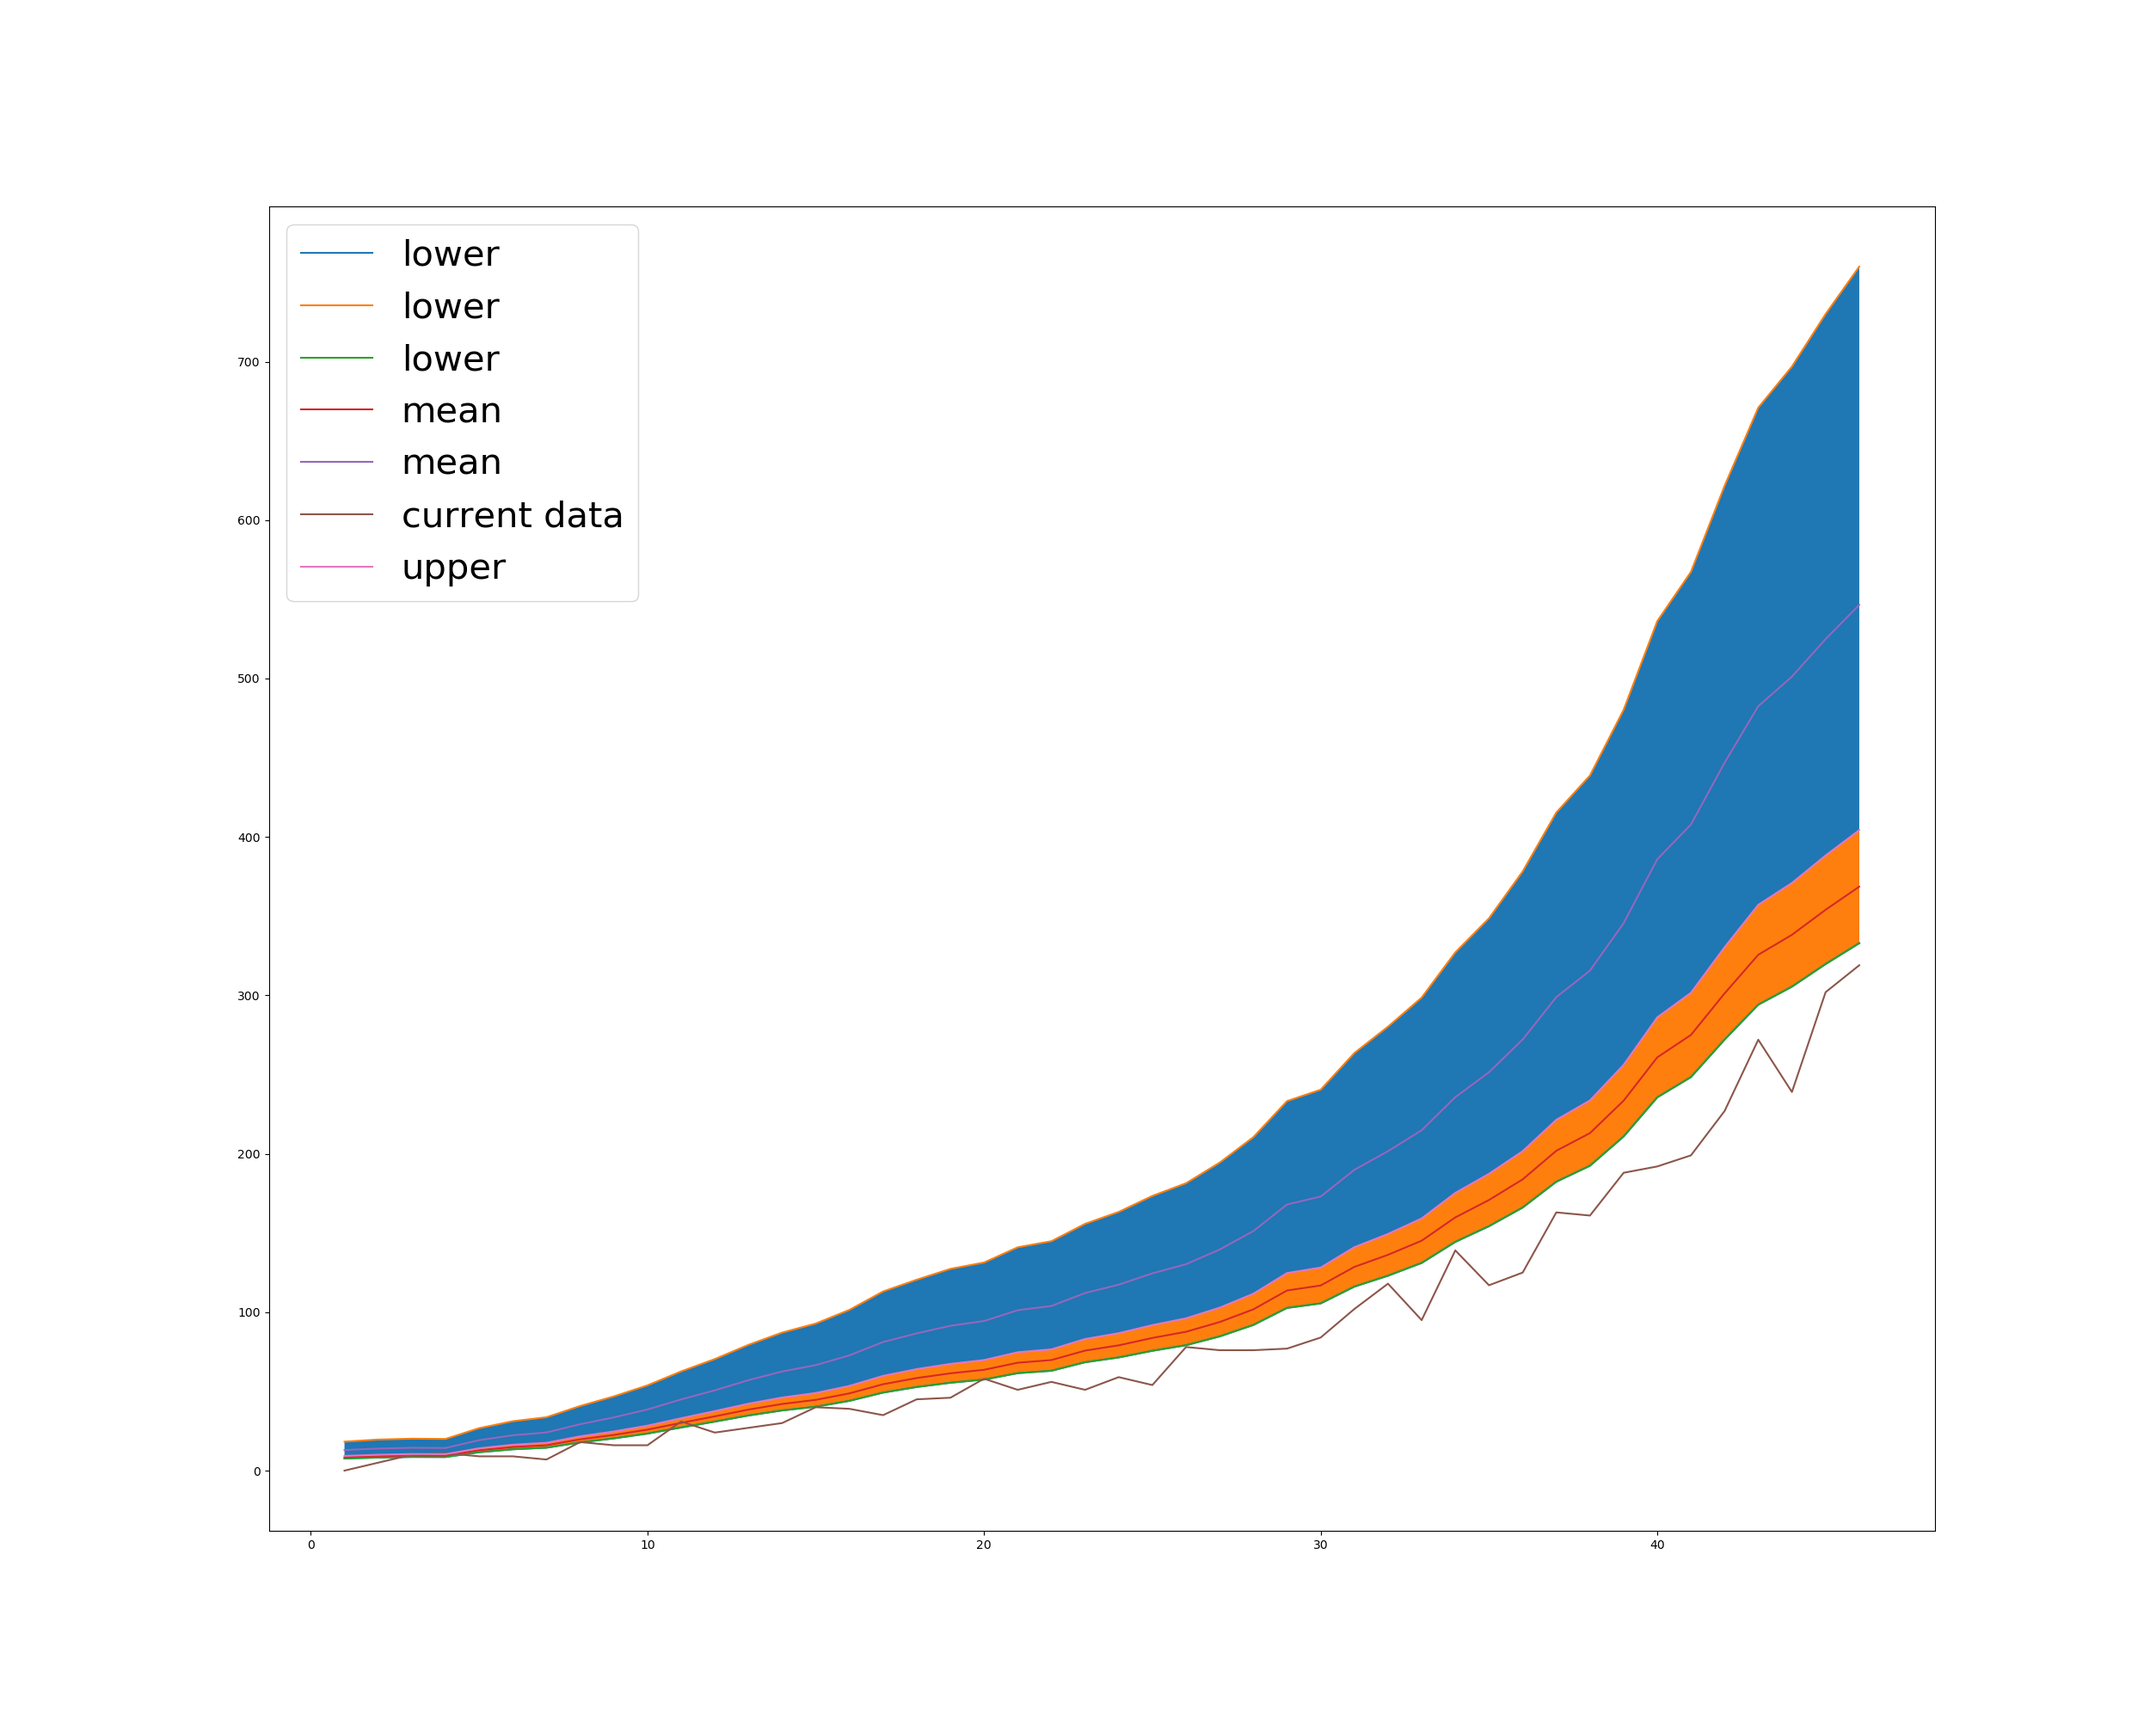
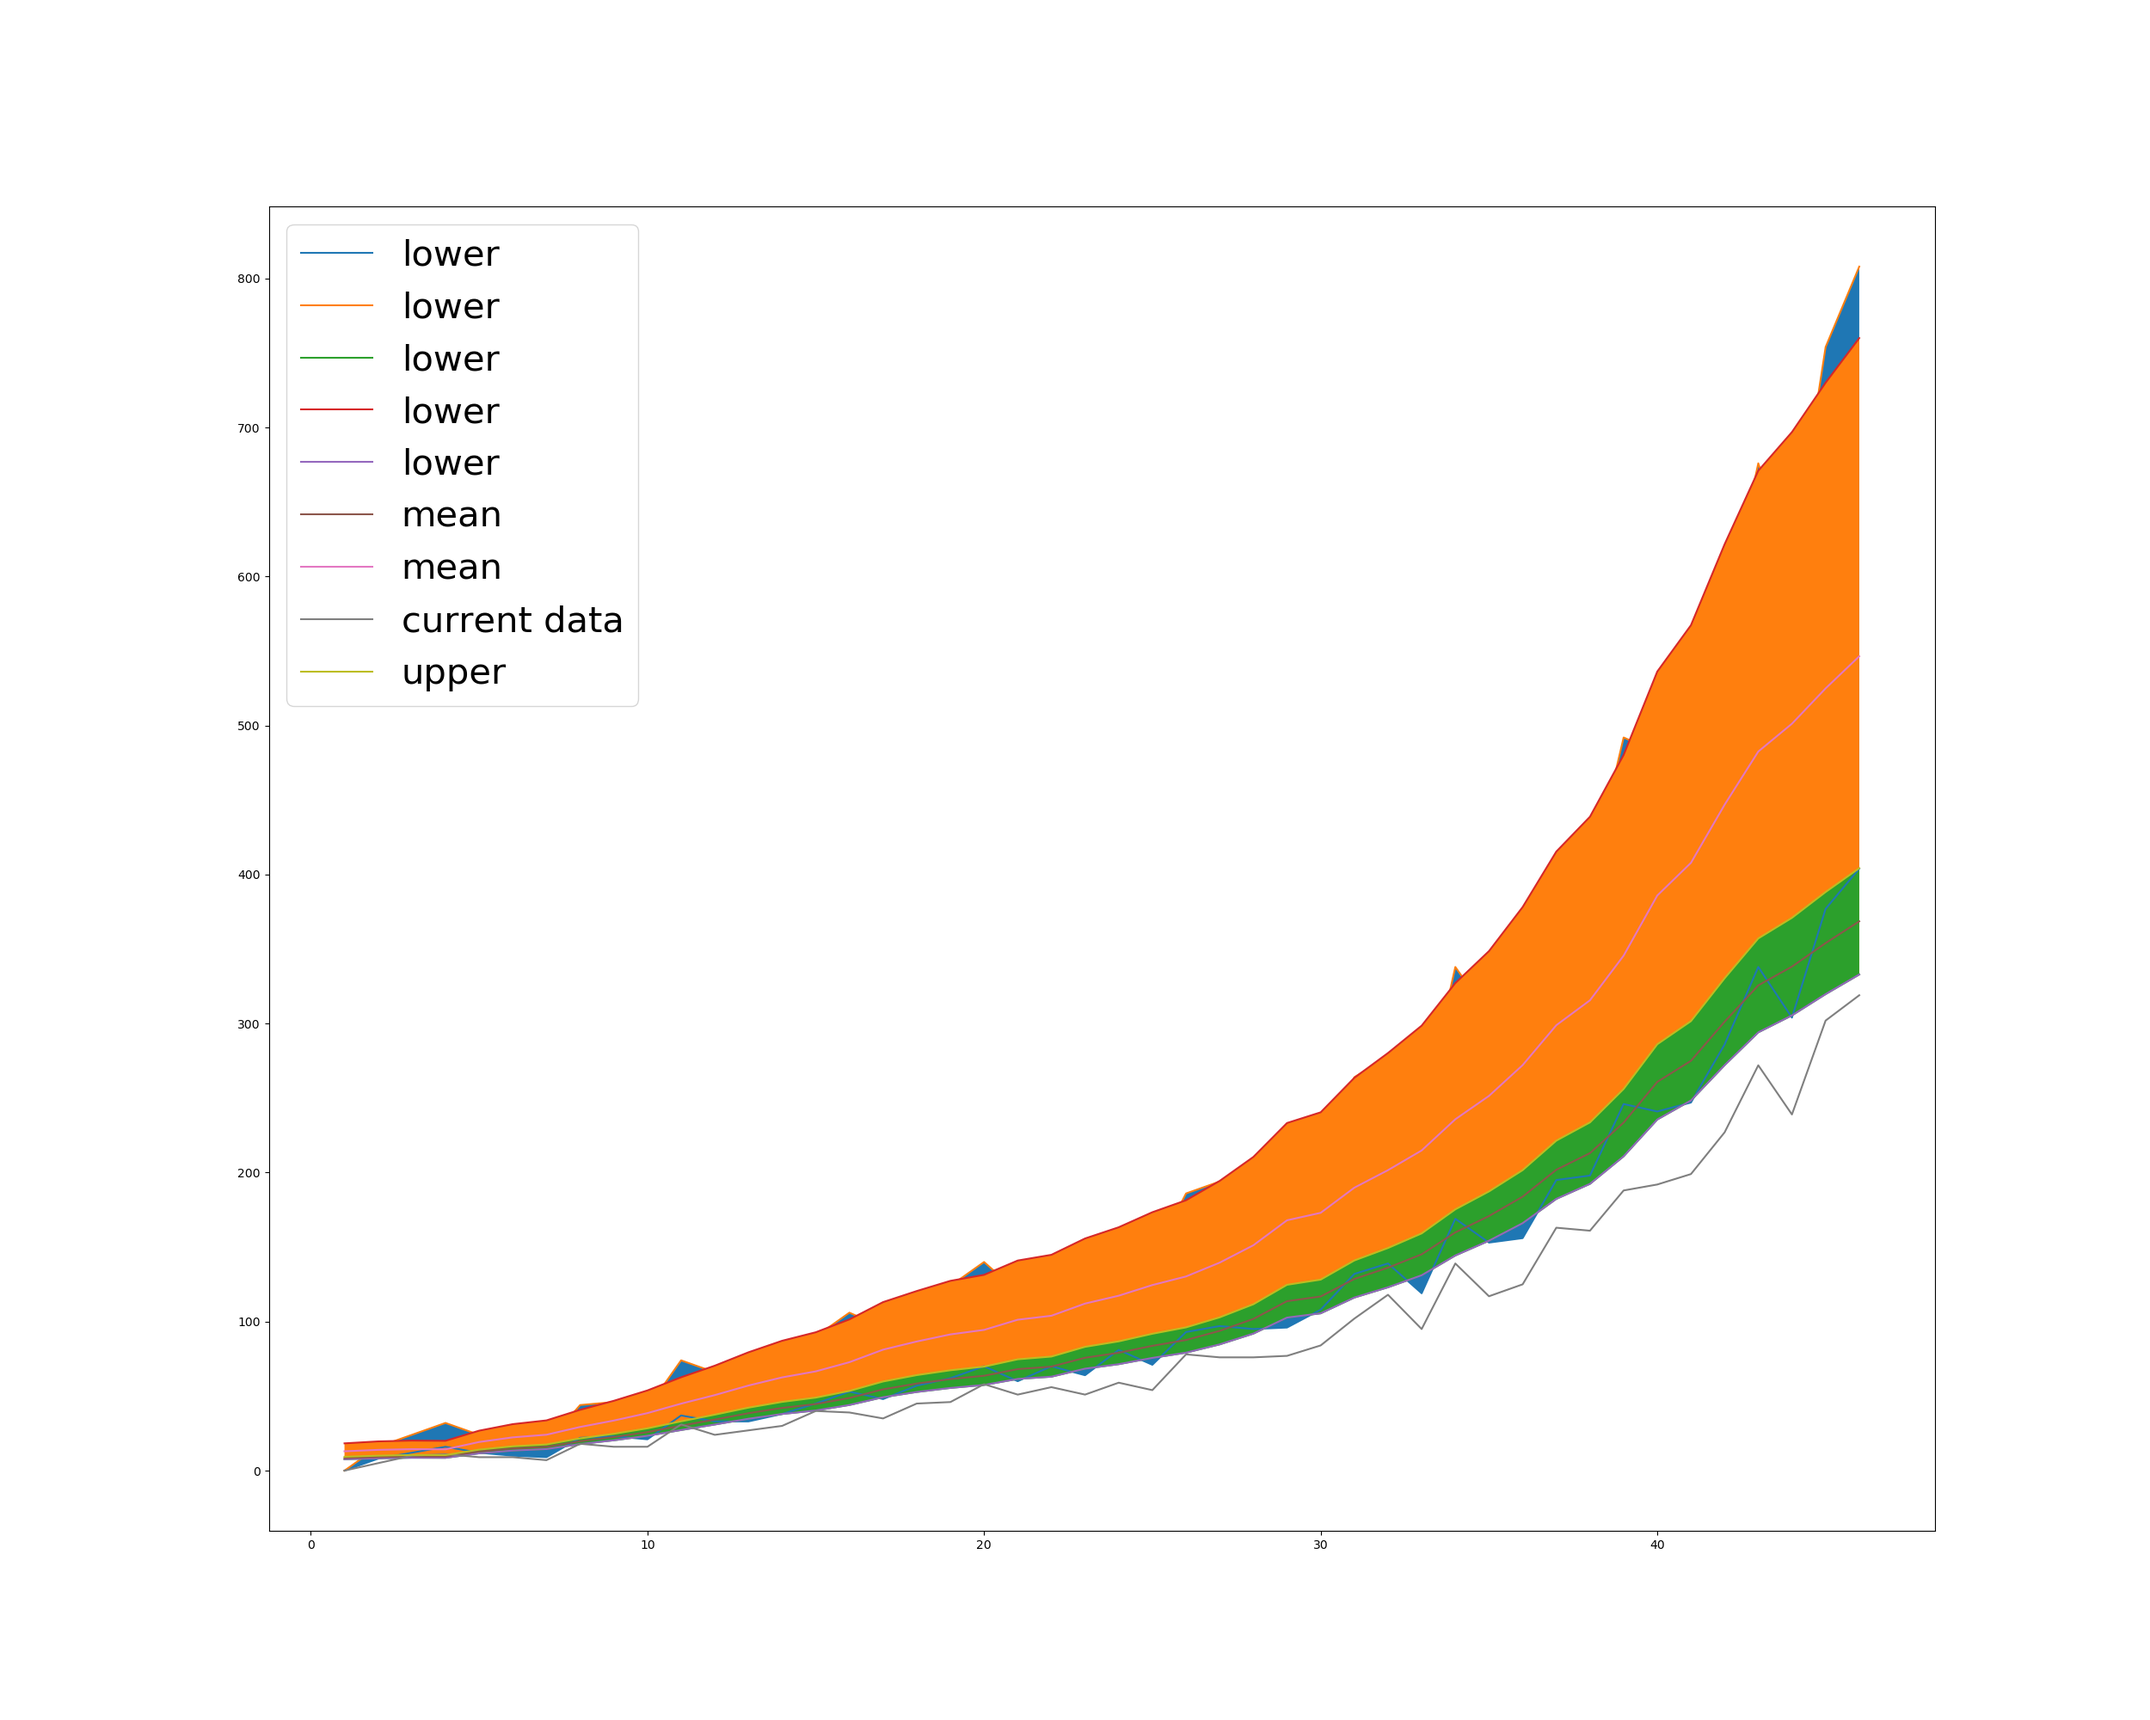
small update

Changed region(s): [[0.156, 0.155, 0.8736, 0.868], [0.1872, 0.217, 0.2808, 0.403]]

diff --git a/Python/bayesian_law/uncertainty.py b/Python/bayesian_law/uncertainty.py
@@ -96,7 +96,16 @@ def add_uncertainty(self, df):
     mu_mul = (norm_num_positive_mean * std_num_postive**2)+(norm_num_tested_mean * std_num_tested**2)/(std_num_postive**2+std_num_tested**2)
     var_mul = (std_num_tested**2*std_num_postive**2)/(std_num_postive**2+std_num_tested**2)
     std_mul = math.sqrt(var_mul)
-
+    
+    print("=======================================================")
+    print("M_u positive = {}".format(norm_num_positive_mean))
+    print("M_u Tested = {}".format(norm_num_tested_mean))
+    print("M_u positive*Tested = {}".format(mu_mul))
+    print("=======================================================")
+    print("sigma positive = {}".format(std_num_postive))
+    print("sigma Tested = {}".format(std_num_tested))
+    print("sigma positive*Tested = {}".format(std_mul))
+    print("=======================================================")
     """
     ============================================================================
     Calules de mercredi
@@ -128,6 +137,7 @@ def add_uncertainty(self, df):
     smooth
     ============================================================================
     """
+
     num_positive_lower = own_NRMAS(num_positive_lower,self.window)
     num_positive_mean = own_NRMAS(num_positive_mean,self.window)
     num_positive_upper = own_NRMAS(num_positive_upper,self.window)
@@ -140,7 +150,7 @@ def add_uncertainty(self, df):
 
     new_df = np.vstack((day,num_positive,num_positive_lower,num_positive_upper,num_tested
         ,num_hospitalised,num_cumulative_hospitalizations,num_critical,num_fatalities
-        ,num_sym_lower,num_sym_upper,num_positive_mean,num_sym_mean))
+        ,num_sym_lower,num_sym_upper,num_positive_mean,num_sym_mean,num_tested_upper))
 
     return pd.DataFrame(new_df.T, columns=['day'                             #0
                                           ,'num_positive'                    #1
@@ -154,4 +164,5 @@ def add_uncertainty(self, df):
                                           ,'num_sym_lower'                   #9
                                           ,'num_sym_upper'                   #10
                                           ,'num_positive_mean'               #11
-                                          ,'num_sym_mean'])                  #12
+                                          ,'num_sym_mean'                    #12
+                                          ,'num_tested_upper'])              #13

diff --git a/Python/bayesian_law/plot.py b/Python/bayesian_law/plot.py
@@ -111,6 +111,9 @@ def plot_current_data(self):
     fig = plt.figure(figsize=(25,20))
 
     ax = plt.subplot()
+    ax.plot(self.dataframe['day'], self.dataframe['num_tested'], label='lower')
+    ax.plot(self.dataframe['day'], self.dataframe['num_tested_upper'], label='lower')
+    ax.fill_between(self.dataframe['day'], self.dataframe['num_tested'], self.dataframe['num_tested_upper'])
     ax.plot(self.dataframe['day'], self.dataframe['num_sym_lower'], label='lower')
     ax.plot(self.dataframe['day'], self.dataframe['num_sym_upper'], label='lower')
     ax.fill_between(self.dataframe['day'], self.dataframe['num_sym_lower'], self.dataframe['num_sym_upper'])
@@ -123,7 +126,7 @@ def plot_current_data(self):
     pr_mean = self.dataframe['num_sym_lower']
     next_pr_mean = (2*pr_mean[len(pr_mean)-1]-pr_mean[len(pr_mean)-2])
     next_nb_tested = next_pr_mean*self.ran
-    print(next_nb_tested)
+    # print(next_nb_tested)
     ax.legend(fontsize=30)
     fig.savefig('Plot/current_data_with_uncertainty.png')
 

diff --git a/Python/bayesian_law/model.py b/Python/bayesian_law/model.py
@@ -462,6 +462,7 @@ class seir():
             self.raw_dataset.insert(10,'num_sym_upper', self.dataframe['num_sym_upper'].to_numpy())
             self.raw_dataset.insert(11,'num_positive_mean', self.dataframe['num_positive_mean'].to_numpy())
             self.raw_dataset.insert(11,'num_sym_mean', self.dataframe['num_positive_mean'].to_numpy())
+            self.raw_dataset.insert(12,'num_tested_upper', self.dataframe['num_tested_upper'].to_numpy())
 
             # preporcessing(self)
 
